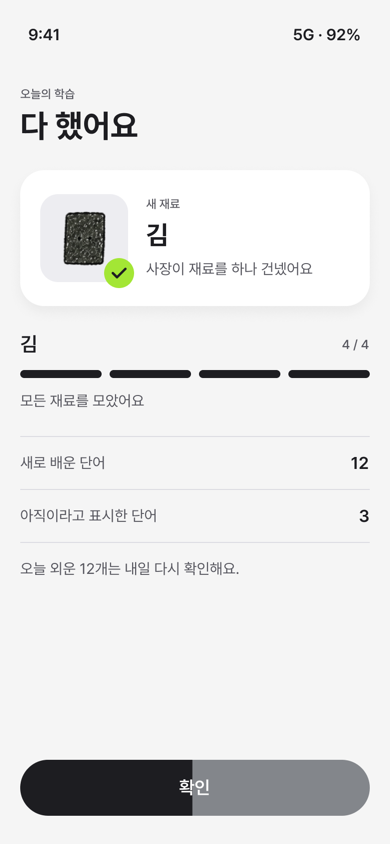
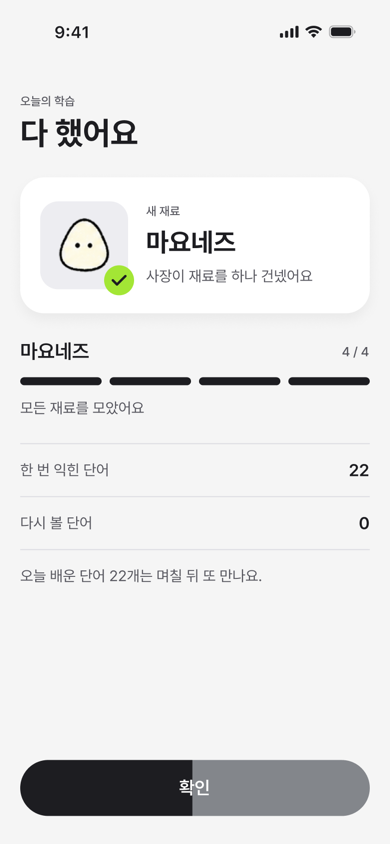
handoff: 16px 01·05 재전달본 교체, 앱 데이터 일치·문구 차이·08 열린 질문 정리

diff --git a/handoff/redesign-2026-08/final-screens-16px/README.md b/handoff/redesign-2026-08/final-screens-16px/README.md
@@ -1,18 +1,35 @@
-# final-screens-16px (2026-11-11, 2026-11-12 갱신)
+# final-screens-16px (2026-11-11, 2026-11-12 갱신 — 01·05 재전달)
 
 Figma에서 좌우 여백 16px 기준으로 다시 내보낸 화면. 옛 `final-screens/`(20px, Onikan `fa259e7`)를 대체해 갈 예정.
 앱 캡처 비교(visual regression)는 아래 핵심 5장만 쓰기로 했다(2026-11-12). 나머지 15장은 다시 내보내지 않는다.
 
-모두 폭 390px(1x)로 맞춰 저장했다. 01·08은 전달받은 이미지가 축소본이라 390폭으로 다시 키웠다 — 글자 가장자리가 약간 흐릴 수 있다.
+모두 폭 390px(1x)로 맞춰 저장했다. 08은 전달받은 이미지가 축소본이라 390폭으로 다시 키웠다 — 글자 가장자리가 약간 흐릴 수 있다. 01(761폭)·05(780폭)는 2026-11-12 재전달본을 390폭으로 줄였다.
 
 | 파일 | 크기 | 대응 fixture | 그림 데이터 vs fixture 데이터 |
 |---|---|---|---|
-| `01-home-study-before.png` | 390×1025 | `01-home-study-before` | 그림: 재료 0/4(밥·참치·마요네즈·김), 오늘 단어 22개·약 5분, 메뉴판 0%, 최근 획득 카드 있음 / fixture: 재료 2/5, 20개·약 6분, 메뉴판 60% |
+| `01-home-study-before.png` | 390×1025 | `01-home-study-before` | 데이터 일치(포크 `2b9f4c4`): 8월 7일 금요일, 오늘 단어 22개·약 7분, 참치마요 모은 재료 3/4(밥·참치·김, 마요네즈 빈칸), 단골 5일차 도장 5개, 최근 획득 참치마요, 메뉴판 401개 중 0% |
 | `02-study-front.png` | 390×844 | `02-study-front` | 그림: 過剰 かじょう / fixture: 勉強 べんきょう |
 | `03-study-reveal.png` | 390×844 | `03-study-reveal` | 그림: 過剰 · 과잉, 과다 (예문은 勉強 문장) / fixture: 勉強 · 공부, 학습 |
-| `05-study-result.png` | 390×844 | `05-study-result` | 그림: 새 재료 김 4/4, '아직이라고 표시한 단어 3', 상태바 '5G · 92%', 확인 버튼이 채워지는 중간 프레임 / fixture: 참치마요 4/4 |
+| `05-study-result.png` | 390×844 | `05-study-result` | 데이터 일치(포크 `2b9f4c4`): 새 재료 마요네즈, 4/4, 익힌 단어 22, 다시 볼 단어 0 |
 | `08-home-review-done.png` | 390×1138 | `08-home-review-done` | 그림: 오늘 학습 완료·단어 20개, 참치마요 주먹밥 1/4, 이어서 회독(챕터 1 · 0/51), 메뉴판 0% / fixture: 복습까지 마친 상태 |
 | `first-pass-result.png` | 390×844 | 없음 | 첫 확인 결과 화면(12/12). fixture 새로 필요 |
+
+## 그림과 앱 문구가 다른 곳 (01·05, 2026-11-12)
+데이터는 맞췄고, 아래 문구만 다르다. 어느 쪽으로 맞출지 정해야 한다.
+
+| 화면 | 그림 | 앱 |
+|---|---|---|
+| 01 히어로 | 왔네. / 오늘은 참치마요야. | 오늘의 한 단어, / 천천히 눌러 담아보자. |
+| 01 히어로 | 오늘 단어 22개 · 약 7분 | 새 단어 22 · 약 7분 |
+| 01 단골 | 단골 혜택 뭐 주냐고? ... 모아보면 알아. | 단골 혜택 · 다음 학습 재료 2배 |
+| 01 재료 순서 | 밥·참치·김·마요네즈 | 밥·김·참치·마요네즈 (캡처에서만 그림 순서로 보여줌) |
+| 05 진행 제목 | 마요네즈 4/4 | 참치마요 4/4 (만드는 오니기리 이름) |
+| 05 진행 안내 | 모든 재료를 모았어요 | 완성했어요 |
+| 05 요약 | 한 번 익힌 단어 | 새로 배운 단어 |
+| 05 안내문 | 오늘 배운 단어 22개는 며칠 뒤 또 만나요. | 오늘 익힌 22개는 며칠 뒤 다시 확인해요. |
+
+## 08 열린 질문
+01(3/4) → 05(마요네즈로 4/4 완성) 흐름이면, 학습 후 홈 08은 '오늘 획득한 재료 밥 · 참치마요 주먹밥 1/4'가 아니라 완성을 보여줘야 이어진다. 시안 결정 전까지 08 fixture는 그림(밥 1/4)대로 둔다.
 
 ## 기준 이미지로 쓸 때 주의
 - 그림 데이터가 fixture와 달라 그대로 비교하면 글자·숫자 부분이 전부 차이로 잡힌다. 쓰려면 fixture를 그림에 맞추거나, 그림을 fixture에 맞춰 다시 내보내야 한다.
